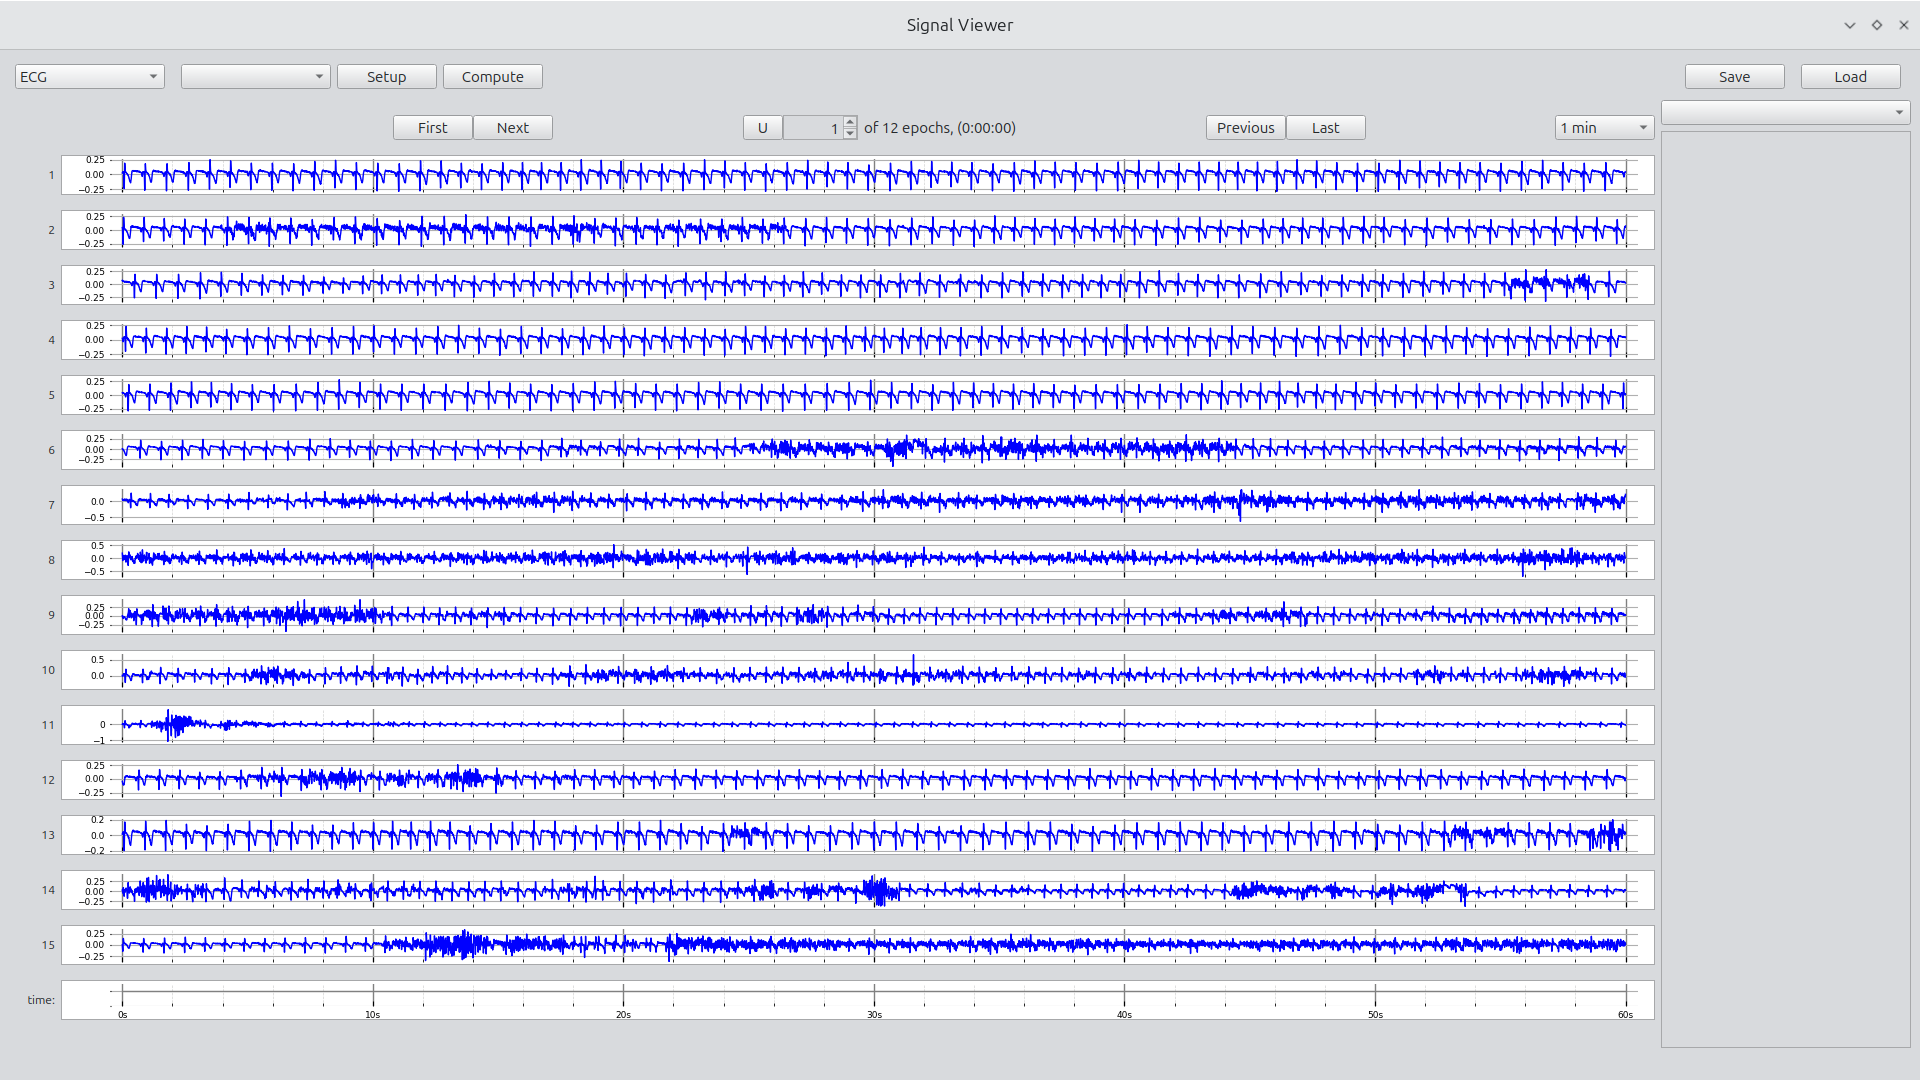
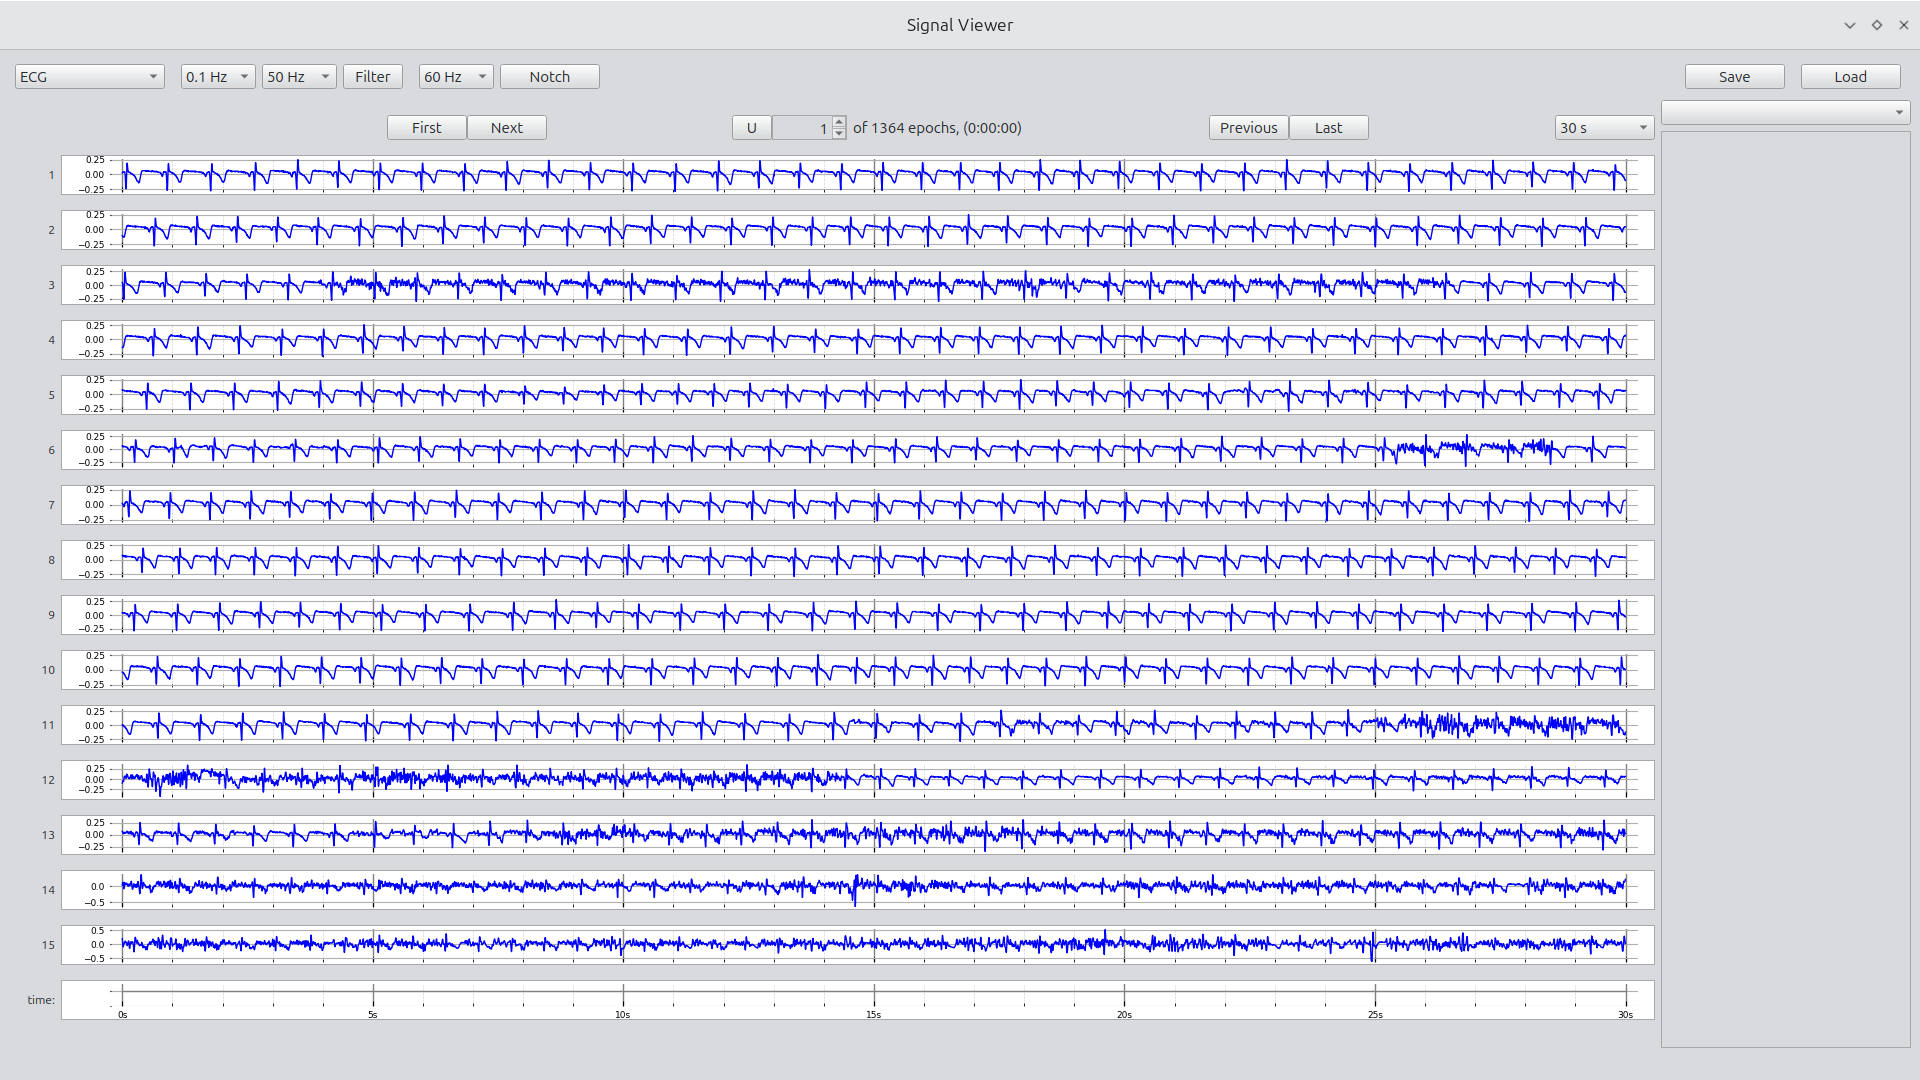
Update readme and signal view figure to show filtering buttons.

diff --git a/SignalWindowClass.py b/SignalWindowClass.py
@@ -322,8 +322,7 @@ class SignalWindow(QMainWindow):
 
         # Turn off epoc buttons
         self.activate_epoch_buttons(activate_buttons=False)
-
-        print(f"Epoch set to next ({self.current_epoch})")
+        #print(f"Epoch set to next ({self.current_epoch})")
         # Example: Set an internal index
         if self.current_epoch + self.number_of_epochs_on_screen < self.max_epoch:
             self.current_epoch += self.number_of_epochs_on_screen

diff --git a/EdfFileClass.py b/EdfFileClass.py
@@ -652,7 +652,7 @@ class EdfSignals:
                 lowcut  = filter_param[0]
                 highcut = filter_param[1]
                 notch   = filter_param[2]
-                print('Extracted filter value')
+                # print('Extracted filter value')
                 if lowcut>0 and highcut>0 and highcut>lowcut:
                     fs = 1/sampling_time
                     logger.info(

diff --git a/README.md b/README.md
@@ -34,7 +34,7 @@ SleepScienceViewer uses a class-based architecture to [represent EDF](Media/Docs
 - **Signal Viewer**
   - Page through a signal to view signal, recording distruptions, and noise
   - Signal x axis moved to the bottom of the page
-  - *Not Implemented:* Interface set up to extract and display annotations computationally
+  - Includes Band Pass and Notch Filtering which checks to ensure filtering parameters are appropriate
 
 ![Signal Viewer](Media/signal_viewer_beta.png)
 
